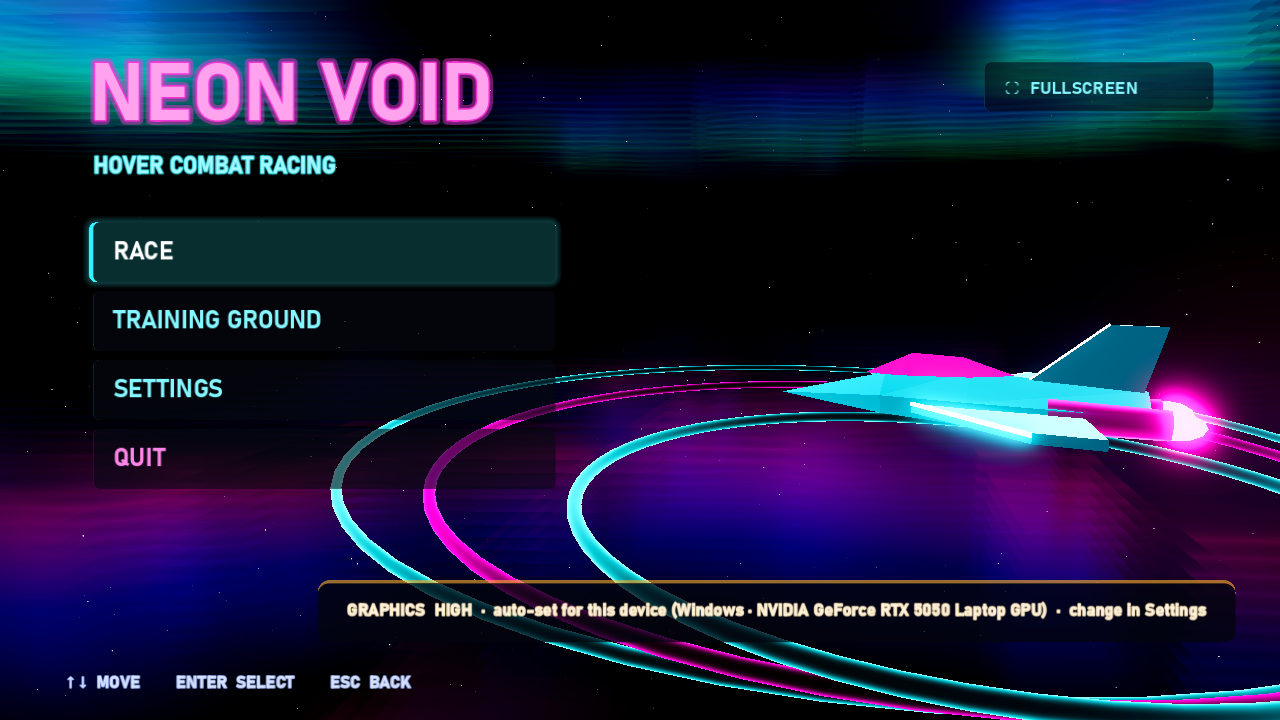
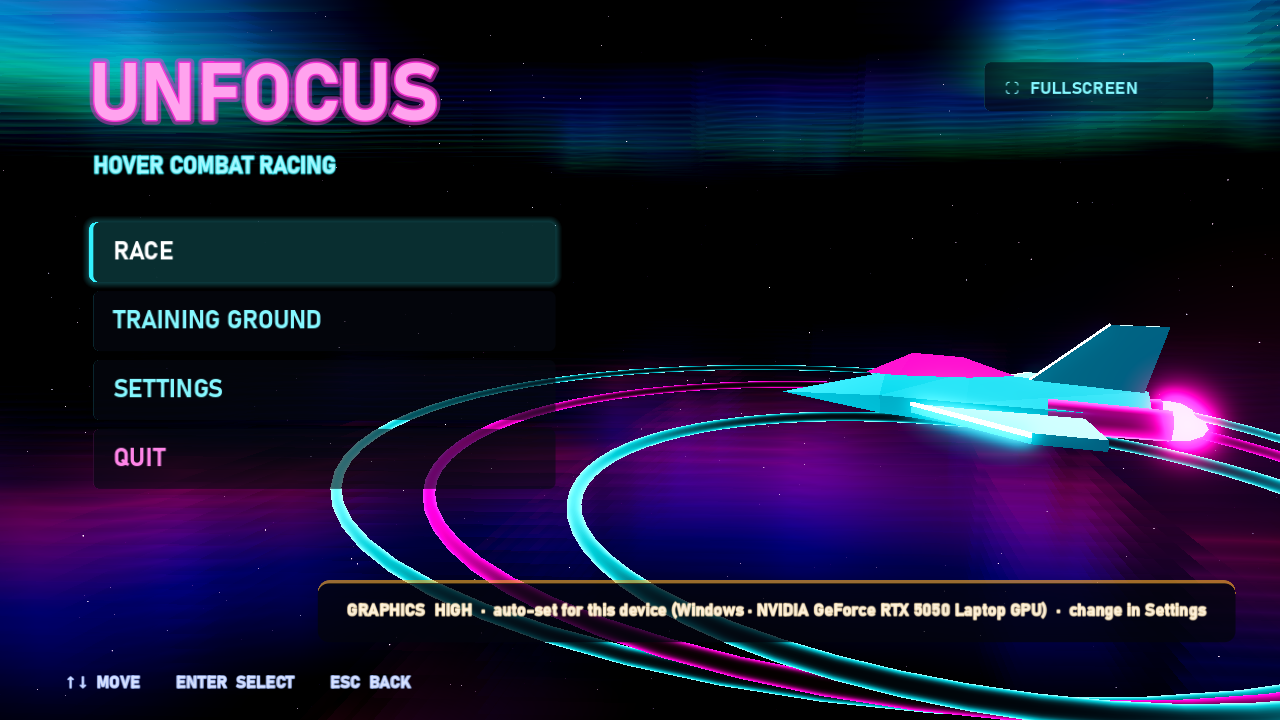
Rename game to UNFOCUS (title, README, project name)

Changed region(s): [[0.0625, 0.0611, 0.4062, 0.1833]]

diff --git a/README.md b/README.md
@@ -1,4 +1,4 @@
-# NEON VOID — Hover Combat Racing
+# UNFOCUS — Hover Combat Racing
 
 **Neon anti-gravity jets, floating circuits in a pitch-black void, and a full arsenal of combat abilities.**
 Made with [Godot 4.7](https://godotengine.org) · runs on desktop and **in your browser**.
@@ -11,7 +11,7 @@ Made with [Godot 4.7](https://godotengine.org) · runs on desktop and **in your 
 
 ## What is it?
 
-NEON VOID is an arcade combat racer in the spirit of classic Blur-style racers and anti-gravity racing games:
+UNFOCUS is an arcade combat racer in the spirit of classic Blur-style racers and anti-gravity racing games:
 hover jets race around neon circuits floating in deep space, under drifting aurora curtains.
 Leave the road and you fall into the void — unless your energy shield catches you.
 
@@ -46,6 +46,9 @@ Leave the road and you fall into the void — unless your energy shield catches 
 <p>
   <img src="docs/screenshots/04_cinematic_intro.png" width="49%" alt="Cinematic intro" />
   <img src="docs/screenshots/08_negative_world.png" width="49%" alt="Harbour Negative" />
+</p>
+<p>
+  <img src="docs/screenshots/01_main_menu.png" width="98%" alt="Main menu" />
 </p>
 <p>
   <img src="docs/screenshots/02_circuit_select.png" width="49%" alt="Circuit select" />
